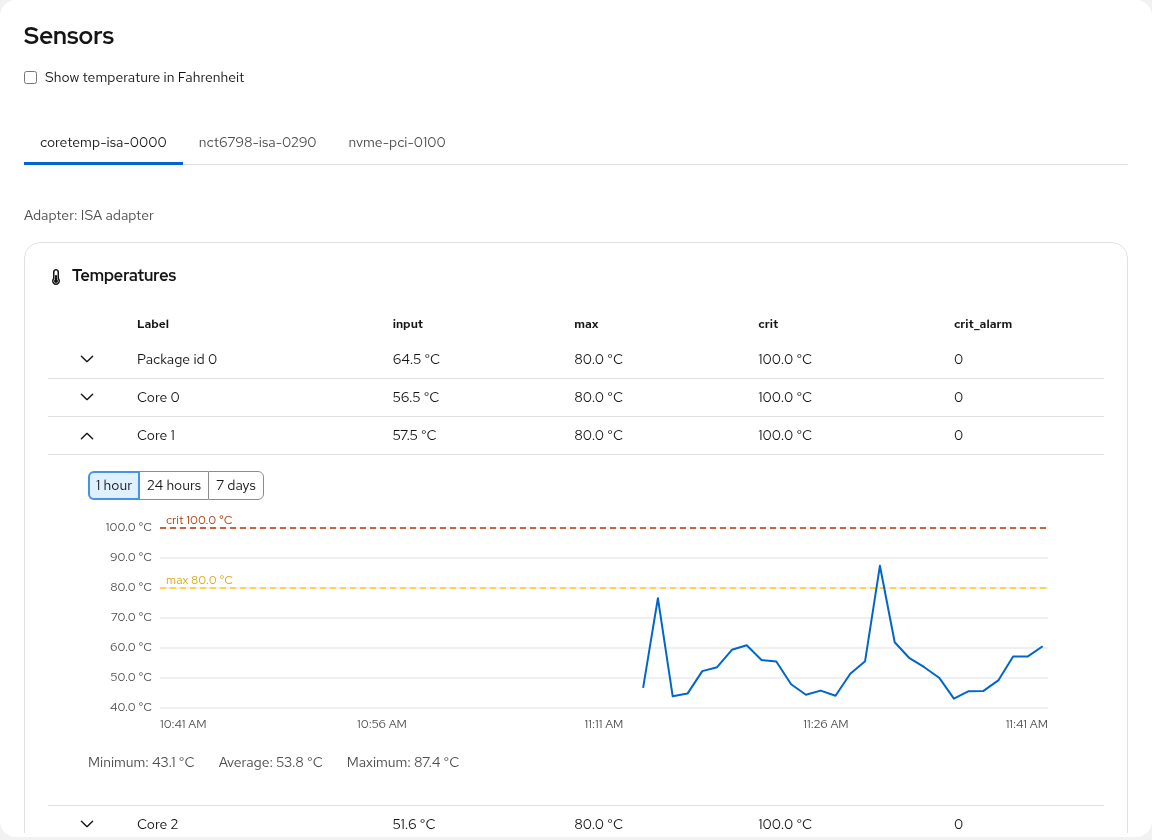
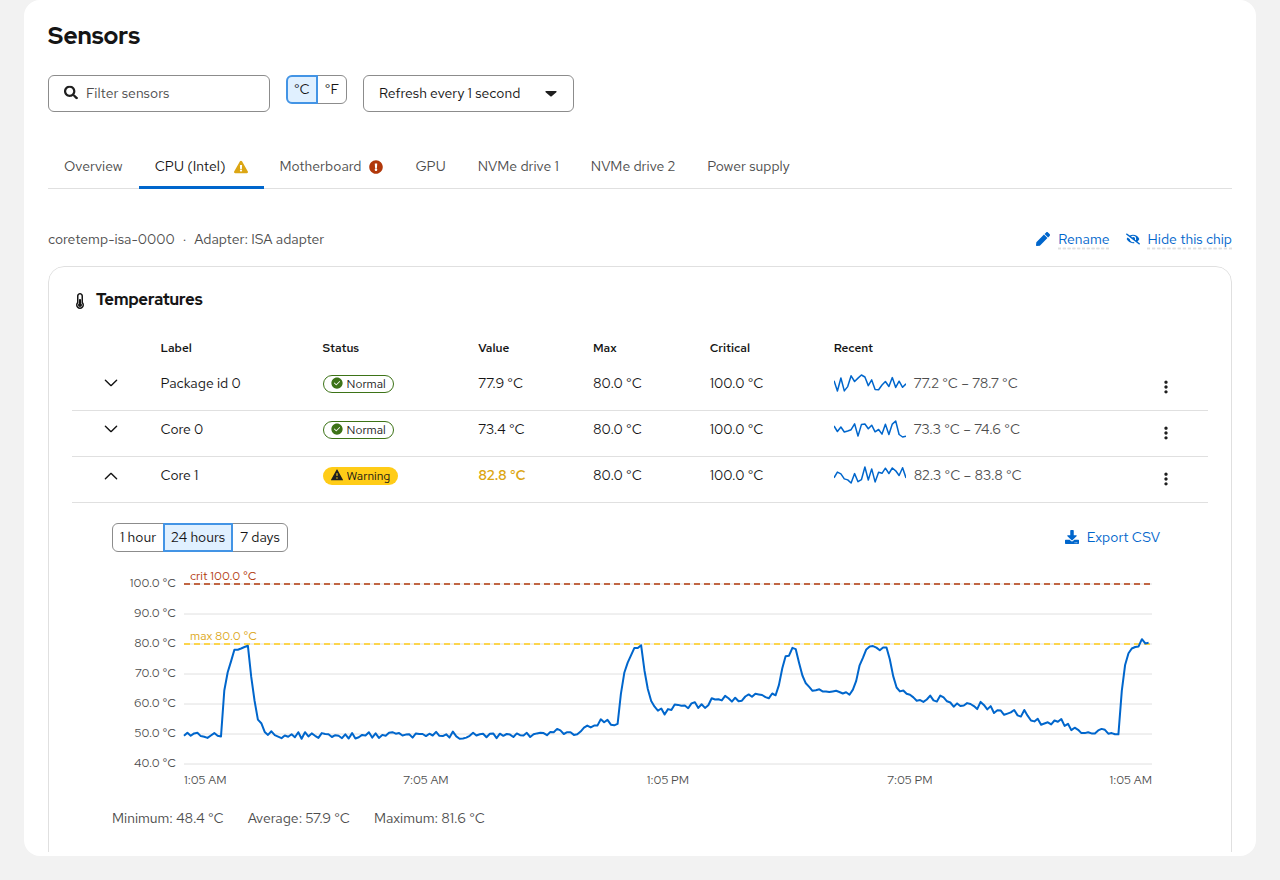
README: new screenshots and up-to-date information
- new screenshots of the 2.2.0 interface: overview, the alerts of a chip
  and the 24-hour history of a sensor
- describe all sensor types and the Detect sensors button
- replace the leftover Cockpit Starter Kit instructions with this
  project's development, test and translation instructions

diff --git a/README.md b/README.md
@@ -1,9 +1,11 @@
 # Cockpit Sensors
 
 A [Cockpit](https://cockpit-project.org/) module that displays all hardware sensor data
-reported by [lm-sensors](https://github.com/lm-sensors/lm-sensors): temperatures, fan speeds and voltages.
+reported by [lm-sensors](https://github.com/lm-sensors/lm-sensors): temperatures, fan speeds, voltages,
+power, currents, energy, humidity and chassis intrusion. It tells you which sensors need attention,
+and keeps their history with [Performance Co-Pilot (PCP)](https://pcp.io/).
 
-![Cockpit Sensors](docs/screenshot.png)
+![Overview of all sensor chips](docs/screenshot.png)
 
 # Features
 
@@ -30,7 +32,8 @@ reported by [lm-sensors](https://github.com/lm-sensors/lm-sensors): temperatures
 
 Packages for every release are attached to the
 [latest release](https://github.com/ocristopfer/cockpit-sensors/releases/latest).
-They depend on `lm-sensors`; run `sudo sensors-detect` once if `sensors` shows no data.
+They need Cockpit and depend on `lm-sensors`. If the page shows no sensors, click **Detect sensors**
+(or run `sudo sensors-detect` once).
 
 ## Debian / Ubuntu (and derivatives)
 
@@ -83,7 +86,7 @@ Then reload Cockpit and open **Sensors** in the menu.
 
 # Alerts
 
-![Overview](docs/overview.png)
+![Sensor statuses of a chip](docs/alerts.png)
 
 Every sensor gets a status, shown in its row (hover it for the reason), on its chip's tab, on the
 Overview and next to **Sensors** in Cockpit's menu, also while you are on another Cockpit page:
@@ -141,20 +144,49 @@ delta	1 minute
 
 # Development
 
+The module is written in TypeScript with React and [PatternFly](https://www.patternfly.org/), and
+built with esbuild. It was created from the [Cockpit Starter Kit](https://github.com/cockpit-project/starter-kit).
+
+Build dependencies: `gettext nodejs npm make` (Debian/Ubuntu, Fedora) or
+`gettext-runtime nodejs npm make` (openSUSE).
+
 ```shell
-make pkg/lib/cockpit-po-plugin.js   # fetch Cockpit's pkg/lib once
-npm install
-npm run build                       # or: make watch
-npm run eslint && npm run stylelint && npx tsc --noEmit
-npm run test:unit                   # unit tests (QUnit) of the parsing, formatting and status logic
-make check                          # integration tests in a Cockpit test VM
+git clone https://github.com/ocristopfer/cockpit-sensors.git
+cd cockpit-sensors
+make                     # fetches Cockpit's pkg/lib, runs npm install and builds dist/
+make devel-install       # links dist/ to ~/.local/share/cockpit/sensors; reload Cockpit to see changes
+make watch               # rebuilds on every change (RSYNC=host make watch uploads to a test machine)
+make devel-uninstall     # removes the link again
 ```
+
+`make install` installs into `/usr/local/share/cockpit/sensors`; `make dist`, `make srpm` and
+`make rpm` build the release tarball and packages.
+
+Checks and tests:
+
+```shell
+npm run eslint           # npm run eslint:fix fixes what it can
+npm run stylelint        # npm run stylelint:fix fixes what it can
+npx tsc --noEmit         # type check
+npm run test:unit        # unit tests (QUnit) of the parsing, formatting and alert logic
+make codecheck           # Cockpit's static code checks
+make check               # integration tests (test/check-application) in a Cockpit test VM
+```
+
+`make check` builds an RPM, installs it into a Cockpit test VM (centos-9-stream by default) and runs
+the browser tests; `TEST_OS=centos-9-stream test/check-application -tvs` reruns them on a prepared VM.
+The tests also run in [Packit](https://packit.dev/) through [tmt](https://tmt.readthedocs.io/)
+(see [packit.yaml](packit.yaml) and [plans/](plans/)). Dependencies are kept up to date by
+[dependabot](.github/dependabot.yml).
+
+Translations live in [po/](po/) (Brazilian Portuguese and German); `make po/sensors.pot` extracts
+the strings to translate.
 
 # Releasing
 
 Releases are built and published by the [release workflow](.github/workflows/release.yml):
 
-- push a version tag: `git tag -a 2.0.0 -m 2.0.0 && git push origin 2.0.0`, or
+- push a version tag: `git tag -a 2.2.0 -m 2.2.0 && git push origin 2.2.0`, or
 - run the **release** workflow from the Actions tab and type the version; it creates the tag.
 
 The workflow builds the tarball, the `.deb` and the `.rpm`, creates the GitHub release with
@@ -172,209 +204,3 @@ Thanks to everyone who helped build this module:
 - [@barrotsteindev](https://github.com/barrotsteindev) — rebased and finished the 2.0 interface (#108), PatternFly 6 migration, translations and packaging fixes
 - [@subz390](https://github.com/subz390) — original installation script
 - Everyone who reported issues and tested releases
-
-# Module created using Starter Kit
-
-# Cockpit Starter Kit
-
-Scaffolding for a [Cockpit](https://cockpit-project.org/) module.
-
-# Development dependencies
-
-On Debian/Ubuntu:
-
-    sudo apt install gettext nodejs npm make
-
-On Fedora:
-
-    sudo dnf install gettext nodejs npm make
-
-On openSUSE Tumbleweed and Leap:
-
-    sudo zypper in gettext-runtime nodejs npm make
-
-# Getting and building the source
-
-These commands check out the source and build it into the `dist/` directory:
-
-```
-git clone https://github.com/cockpit-project/starter-kit.git
-cd starter-kit
-make
-```
-
-# Installing
-
-`make install` compiles and installs the package in `/usr/local/share/cockpit/`. The
-convenience targets `srpm` and `rpm` build the source and binary rpms,
-respectively. Both of these make use of the `dist` target, which is used
-to generate the distribution tarball. In `production` mode, source files are
-automatically minified and compressed. Set `NODE_ENV=production` if you want to
-duplicate this behavior.
-
-For development, you usually want to run your module straight out of the git
-tree. To do that, run `make devel-install`, which links your checkout to the
-location were cockpit-bridge looks for packages. If you prefer to do
-this manually:
-
-```
-mkdir -p ~/.local/share/cockpit
-ln -s `pwd`/dist ~/.local/share/cockpit/starter-kit
-```
-
-After changing the code and running `make` again, reload the Cockpit page in
-your browser.
-
-You can also use
-[watch mode](https://esbuild.github.io/api/#watch) to
-automatically update the bundle on every code change with
-
-    ./build.js -w
-
-or
-
-    make watch
-
-When developing against a virtual machine, watch mode can also automatically upload
-the code changes by setting the `RSYNC` environment variable to
-the remote hostname.
-
-    RSYNC=c make watch
-
-When developing against a remote host as a normal user, `RSYNC_DEVEL` can be
-set to upload code changes to `~/.local/share/cockpit/` instead of
-`/usr/local`.
-
-    RSYNC_DEVEL=example.com make watch
-
-To "uninstall" the locally installed version, run `make devel-uninstall`, or
-remove manually the symlink:
-
-    rm ~/.local/share/cockpit/starter-kit
-
-# Running eslint
-
-Cockpit Starter Kit uses [ESLint](https://eslint.org/) to automatically check
-JavaScript/TypeScript code style in `.js[x]` and `.ts[x]` files.
-
-eslint is executed as part of `test/static-code`, aka. `make codecheck`.
-
-For developer convenience, the ESLint can be started explicitly by:
-
-    npm run eslint
-
-Violations of some rules can be fixed automatically by:
-
-    npm run eslint:fix
-
-Rules configuration can be found in the `.eslintrc.json` file.
-
-## Running stylelint
-
-Cockpit uses [Stylelint](https://stylelint.io/) to automatically check CSS code
-style in `.css` and `scss` files.
-
-styleint is executed as part of `test/static-code`, aka. `make codecheck`.
-
-For developer convenience, the Stylelint can be started explicitly by:
-
-    npm run stylelint
-
-Violations of some rules can be fixed automatically by:
-
-    npm run stylelint:fix
-
-Rules configuration can be found in the `.stylelintrc.json` file.
-
-# Running tests locally
-
-Run `make check` to build an RPM, install it into a standard Cockpit test VM
-(centos-9-stream by default), and run the test/check-application integration test on
-it. This uses Cockpit's Chrome DevTools Protocol based browser tests, through a
-Python API abstraction. Note that this API is not guaranteed to be stable, so
-if you run into failures and don't want to adjust tests, consider checking out
-Cockpit's test/common from a tag instead of main (see the `test/common`
-target in `Makefile`).
-
-After the test VM is prepared, you can manually run the test without rebuilding
-the VM, possibly with extra options for tracing and halting on test failures
-(for interactive debugging):
-
-    TEST_OS=centos-9-stream test/check-application -tvs
-
-It is possible to setup the test environment without running the tests:
-
-    TEST_OS=centos-9-stream make prepare-check
-
-You can also run the test against a different Cockpit image, for example:
-
-    TEST_OS=fedora-40 make check
-
-# Running tests in CI
-
-These tests can be run in [Cirrus CI](https://cirrus-ci.org/), on their free
-[Linux Containers](https://cirrus-ci.org/guide/linux/) environment which
-explicitly supports `/dev/kvm`. Please see [Quick
-Start](https://cirrus-ci.org/guide/quick-start/) how to set up Cirrus CI for
-your project after forking from starter-kit.
-
-The included [.cirrus.yml](./.cirrus.yml) runs the integration tests for two
-operating systems (Fedora and CentOS 8). Note that if/once your project grows
-bigger, or gets frequent changes, you may need to move to a paid account, or
-different infrastructure with more capacity.
-
-Tests also run in [Packit](https://packit.dev/) for all currently supported
-Fedora releases; see the [packit.yaml](./packit.yaml) control file. You need to
-[enable Packit-as-a-service](https://packit.dev/docs/packit-service/) in your GitHub project to use this.
-To run the tests in the exact same way for upstream pull requests and for
-[Fedora package update gating](https://docs.fedoraproject.org/en-US/ci/), the
-tests are wrapped in the [FMF metadata format](https://github.com/teemtee/fmf)
-for using with the [tmt test management tool](https://docs.fedoraproject.org/en-US/ci/tmt/).
-Note that Packit tests can _not_ run their own virtual machine images, thus
-they only run [@nondestructive tests](https://github.com/cockpit-project/cockpit/blob/main/test/common/testlib.py).
-
-# Customizing
-
-After cloning the Starter Kit you should rename the files, package names, and
-labels to your own project's name. Use these commands to find out what to
-change:
-
-    find -iname '*starter*'
-    git grep -i starter
-
-# Automated release
-
-Once your cloned project is ready for a release, you should consider automating
-that. The intention is that the only manual step for releasing a project is to create
-a signed tag for the version number, which includes a summary of the noteworthy
-changes:
-
-```
-123
-
-- this new feature
-- fix bug #123
-```
-
-Pushing the release tag triggers the [release.yml](.github/workflows/release.yml.disabled)
-[GitHub action](https://github.com/features/actions) workflow. This creates the
-official release tarball and publishes as upstream release to GitHub. The
-workflow is disabled by default -- to use it, edit the file as per the comment
-at the top, and rename it to just `*.yml`.
-
-The Fedora and COPR releases are done with [Packit](https://packit.dev/),
-see the [packit.yaml](./packit.yaml) control file.
-
-# Automated maintenance
-
-It is important to keep your [NPM modules](./package.json) up to date, to keep
-up with security updates and bug fixes. This happens with
-[dependabot](https://github.com/dependabot),
-see [configuration file](.github/dependabot.yml).
-
-# Further reading
-
-- The [Starter Kit announcement](https://cockpit-project.org/blog/cockpit-starter-kit.html)
-  blog post explains the rationale for this project.
-- [Cockpit Deployment and Developer documentation](https://cockpit-project.org/guide/latest/)
-- [Make your project easily discoverable](https://cockpit-project.org/blog/making-a-cockpit-application.html)
